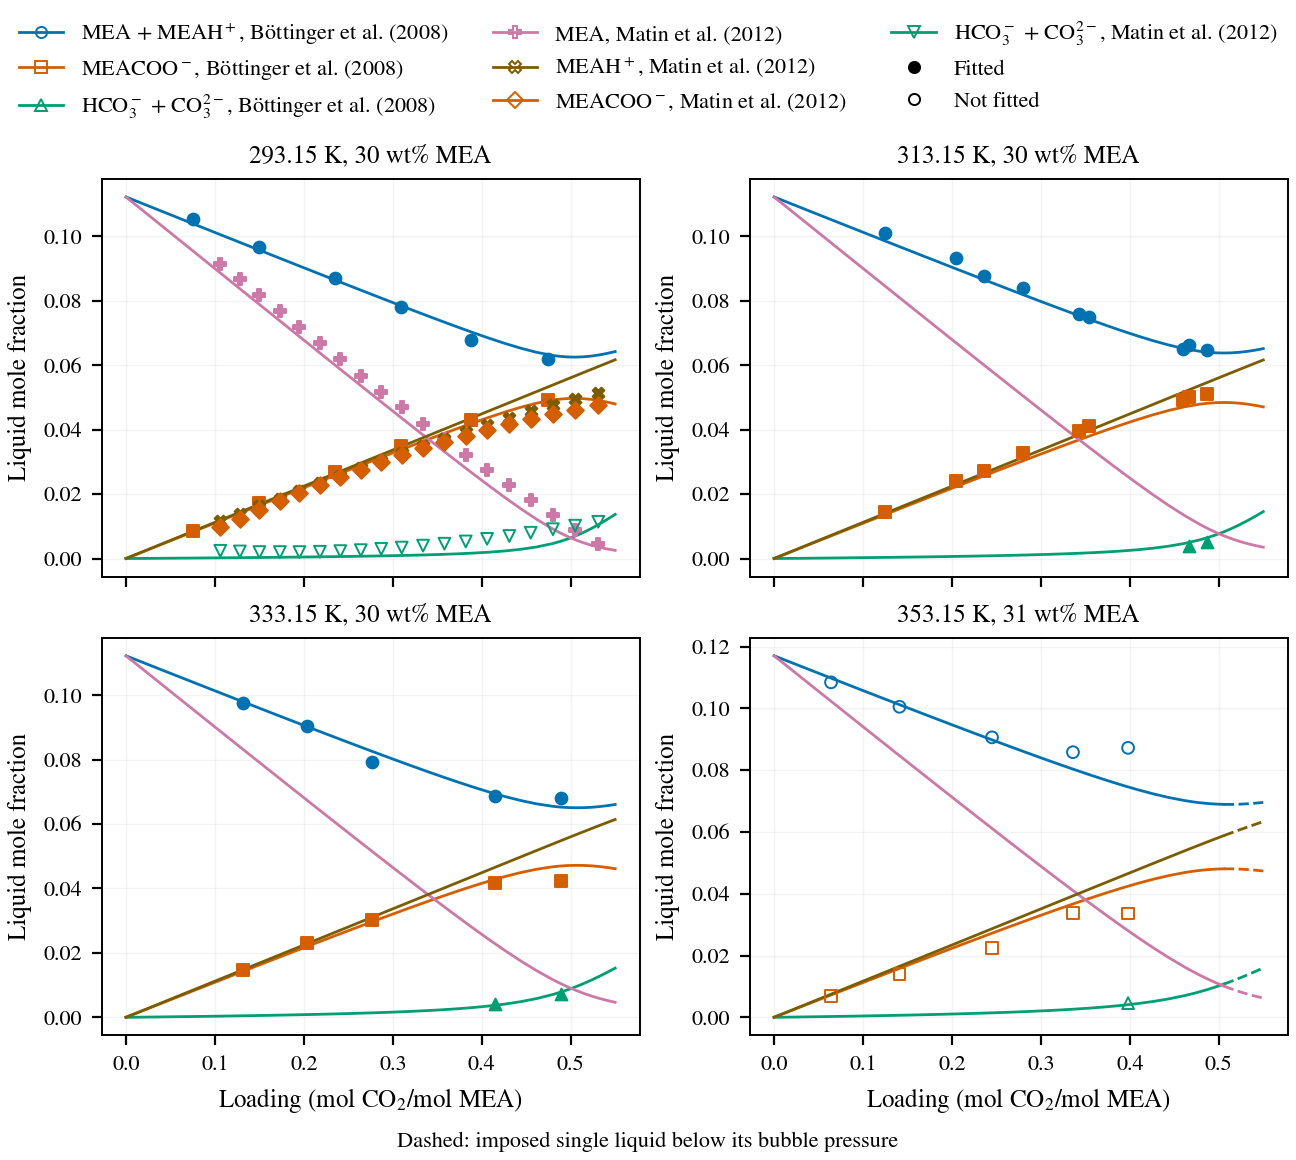
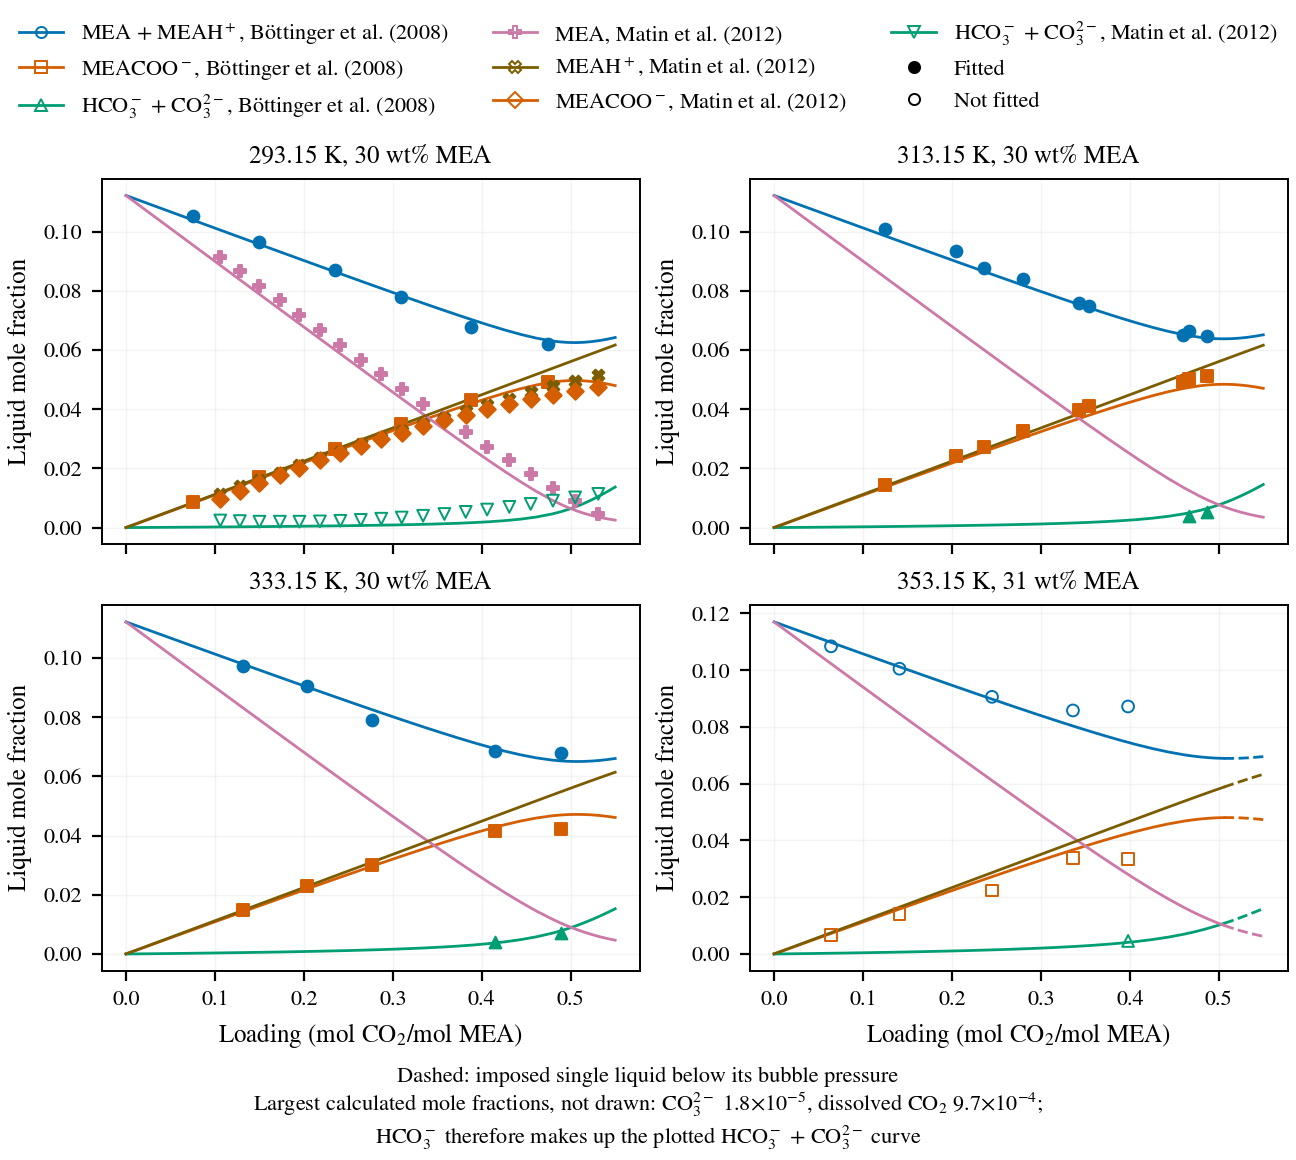
Draw unknown states as gaps or dotted segments and add species note (#202)
Fix round 1 of the delivered review.

- curve(): each segment takes the style of its less certain end: solid
  above the bubble pressure, dashed below it, dotted where the comparison
  is unavailable (the figure note or legend says so only if such a state
  exists; none does in the current curves).
- MEA-water: the full ordered grid is kept, with NaN at unavailable
  states in both the liquid and vapor branches.
- Speciation note gives the largest calculated CO3^2- (1.8e-5) and
  dissolved CO2 (9.7e-4) mole fractions, computed from species.csv, and
  states that HCO3- makes up the plotted HCO3- + CO3^2- curve.
- Removes measured(), unused since the curve redraw.
- Notebook: pressure-table row renamed "Hilliard 2008 + Jou 1995
  comparison subset" with a note that its statistics cover 79 of the 182
  displayed measurements; the loading sentence now names the
  loaded-MEA figures and the MEA-water composition axis separately.

diff --git a/analyses/mea_parameter_bundle/scripts/render_manuscript_figures.py b/analyses/mea_parameter_bundle/scripts/render_manuscript_figures.py
@@ -1,6 +1,7 @@
 """Render the manuscript figures from retained states and the retained model curves (#197, #202); no Engine compute."""
 import json
 import math
+from itertools import groupby
 
 import matplotlib
 matplotlib.use('Agg')
@@ -19,6 +20,7 @@ SOURCE_NAMES = {'Bottinger2008':'Böttinger et al. (2008)', 'Matin2012':'Matin e
 SPECIES_NAMES = {'MEA':r'MEA', 'MEAH+':r'MEAH$^+$', 'MEACOO-':r'MEACOO$^-$', 'MEA + MEAH+':r'MEA + MEAH$^+$', 'HCO3-':r'HCO$_3^-$ + CO$_3^{2-}$', 'HCO3- + CO3^2-':r'HCO$_3^-$ + CO$_3^{2-}$'}
 CURVES = a.BUNDLE / 'results/model-curves'
 DASHED = 'Dashed: imposed single liquid below its bubble pressure'
+UNKNOWN = lambda rows: any(r.get('below_bubble_pressure') == 'unavailable' for r in rows)
 
 
 
@@ -31,26 +33,18 @@ def save(fig, name, caption, inputs):
 
 
 def curve(ax, rows, quantity, color, scale=1.):
-    """Model curve through its grid and midpoint states; unavailable states are gaps; dashed below the bubble pressure."""
+    """Model curve over its ordered states, with gaps at unavailable states; each segment takes its less certain end's style (below the bubble pressure: dashed; comparison unavailable: dotted)."""
     part = sorted((r for r in rows if r['quantity'] == quantity), key=lambda r: float(r['analytical_loading']))
     x = [float(r['analytical_loading']) for r in part]
     y = [float(r['value'])*scale if r['status'] == 'available' else math.nan for r in part]
-    below = [r.get('below_bubble_pressure') == 'True' for r in part]
-    ax.plot(x, [v if not b else math.nan for v, b in zip(y, below)], color=color, lw=1)
-    if any(below):
-        ax.plot(x, [v if b or (i+1 < len(y) and below[i+1]) else math.nan for i, (v, b) in enumerate(zip(y, below))], color=color, lw=1, ls='--')
+    rank = [{'False': 0, 'True': 1}.get(r.get('below_bubble_pressure', 'False'), 2) for r in part]
+    for style, run in groupby(range(len(x) - 1), key=lambda i: max(rank[i], rank[i+1])):
+        i = list(run)
+        ax.plot(x[i[0]:i[-1]+2], y[i[0]:i[-1]+2], color=color, lw=1, ls=('-', '--', ':')[style])
 
 
 def points(ax, x, y, marker, color, filled):
     ax.scatter(x, y, marker=marker, facecolors=color if filled else 'none', edgecolors=color, s=18, linewidths=.7, zorder=3)
-
-
-def measured(ax, part, color, label, fitted, marker='o'):
-    for member in [True, False]:
-        rows = [r for r in part if (r['target'] in fitted) == member]
-        ax.scatter([float(r['loading']) for r in rows], [float(r['observed']) for r in rows],
-                   marker=marker, facecolors=color if member else 'none', edgecolors=color, s=20, linewidths=.7)
-    ax.scatter([float(r['loading']) for r in part], [float(r['predicted']) for r in part], marker='x', color='black', s=10, linewidths=.55)
 
 
 def main():
@@ -109,7 +103,8 @@ def main():
         ax.set_xlabel(LOADING)
     handles = list({h.get_label(): h for h in handles}.values()) + [Line2D([], [], marker='o', markerfacecolor=f, color='black', linestyle='none', label=l) for f, l in (('black', 'Fitted'), ('none', 'Not fitted'))]
     fig.legend(handles=handles, loc='outside upper center', ncol=3, fontsize=8, frameon=False)
-    fig.supxlabel(DASHED, fontsize=8)
+    top = {q: f'{m}$\\times10^{{{int(e)}}}$' for q in ('CO3^2-', 'CO2') for m, e in [f'{max(float(r["value"]) for r in curves if r["quantity"] == q and r["status"] == "available"):.1e}'.split('e')]}
+    fig.supxlabel(DASHED + ('; dotted: bubble-pressure comparison unavailable' if UNKNOWN(curves) else '') + f"\nLargest calculated mole fractions, not drawn: CO$_3^{{2-}}$ {top['CO3^2-']}, dissolved CO$_2$ {top['CO2']};\nHCO$_3^-$ therefore makes up the plotted HCO$_3^-$ + CO$_3^{{2-}}$ curve", fontsize=8)
     save(fig, 'speciation', 'True-species liquid mole fractions of loaded MEA against analytical loading: model curves and the Böttinger and Matin measurements, with MEA + MEAH+ and HCO3− + CO3²− as the reported aggregates. States are single liquids imposed at 101 325 Pa; the 353.15 K panel uses 31 wt% MEA to match Böttinger’s samples, and its states above loading 0.51 lie below their bubble pressure.', ['species-figure-data.csv','fitted-rows.csv','model-curves/species.csv'])
     fig, ax = plt.subplots(figsize=(FULL_WIDTH, 3.8), layout='constrained')
     curves, handles = a.rows(CURVES/'heat.csv'), []
@@ -166,7 +161,7 @@ def main():
     handles = [Line2D([], [], color=c, label=f"{T:g} K, {0.7 if T > 364 else 0.1:g} MPa") for T, c in zip(temperatures, COLORS)]
     handles += [Line2D([], [], marker=m, markerfacecolor='none', color='black', linestyle='none', label=SOURCE_NAMES[s]) for s, m in zip(sources, MARKERS)]
     handles += [Line2D([], [], marker='o', markerfacecolor=f, color='black', linestyle='none', label=l) for f, l in (('black', 'Fitted'), ('none', 'Not fitted'))]
-    fig.legend(handles=handles+[Line2D([], [], color='black', ls='--', label='Below bubble pressure')], fontsize=8, frameon=False, loc='outside right upper')
+    fig.legend(handles=handles + [Line2D([], [], color='black', ls='--', label='Below bubble pressure')] + [Line2D([], [], color='black', ls=':', label='Bubble comparison unavailable')]*UNKNOWN(curves), fontsize=8, frameon=False, loc='outside right upper')
     ax.set(xlabel=LOADING, ylabel='Liquid density (kg/m³)')
     ax.grid(alpha=.15)
     save(fig, 'density-curves', 'Liquid density of 30 wt% MEA against analytical loading: model curves at six temperatures and the 30 wt% measurements at those temperatures. Single liquids are imposed at 0.1 MPa up to 353.15 K and at 0.7 MPa at 373.15 and 393.15 K, as in the retained Han comparison; zero loading carries exactly zero carbon. Dashed segments lie below their bubble pressure. No empirical volume translation.', ['density.csv','fitted-rows.csv','model-curves/density.csv'])
@@ -175,8 +170,8 @@ def main():
     observed = {r['id']: float(r['observed']) for r in fitted if r['group'] == 'Cai'}
     for P, color in zip((101330., 66660.), COLORS):
         state = {}
-        for r in (r for r in curves if float(r['pressure_Pa']) == P and r['status'] == 'available'):
-            state.setdefault(float(r['liquid_mea_mole_fraction']), {})[r['quantity']] = float(r['value'])
+        for r in (r for r in curves if float(r['pressure_Pa']) == P):  # full ordered grid; unavailable states are gaps in both branches
+            state.setdefault(float(r['liquid_mea_mole_fraction']), {})[r['quantity']] = float(r['value']) if r['status'] == 'available' else math.nan
         x = sorted(state)
         ax.plot(x, [state[v]['bubble temperature'] for v in x], color=color)
         ax.plot([1-state[v]['vapor water mole fraction'] for v in x], [state[v]['bubble temperature'] for v in x], color=color, ls='--')

diff --git a/analyses/mea_parameter_bundle/scripts/render_parameter_tables.py b/analyses/mea_parameter_bundle/scripts/render_parameter_tables.py
@@ -255,7 +255,7 @@ def results():
     blocks['heat-capacity'] += f"\n{sum(abs(float(r['error_percent'])) > 3 for r in cp)} of {len(cp)} states exceed the 3% comparison limit.\n"
     stats = read(OUT / 'statistics.csv')
     labels = {
-        ('pressure', 'displayed', 'all'): 'All shown (Hilliard 2008 + Jou 1995)',
+        ('pressure', 'displayed', 'all'): 'Hilliard 2008 + Jou 1995 comparison subset',
         ('pressure', 'common149 fitted', 'all'): 'Fitted (common calibration subset)',
         ('pressure', 'displayed source', 'Hilliard2008'): 'Hilliard 2008',
         ('pressure', 'displayed source', 'Jou1995'): 'Jou 1995',
@@ -273,6 +273,9 @@ def results():
               f"{float(r['aard_percent']):.2f}", f"{float(r['rms_ln_pred_over_obs']):.4f}"]
              for r in stats if (r['family'], r['group_type'], r['group']) in labels
              and (r['family'] == family or (family == 'species' and r['family'] == 'Matin pool'))])
+    subset = next(r['attempted'] for r in stats if (r['family'], r['group_type'], r['group']) == ('pressure', 'displayed', 'all'))
+    shown = sum(len(read(DATA / f'{n}-pressure.csv')) for n in ('canonical', 'wagner'))
+    blocks['pressure'] += f'\nThese statistics cover {subset} of the {shown} measurements in the CO₂ pressure figure.\n'
     return blocks
 
 
